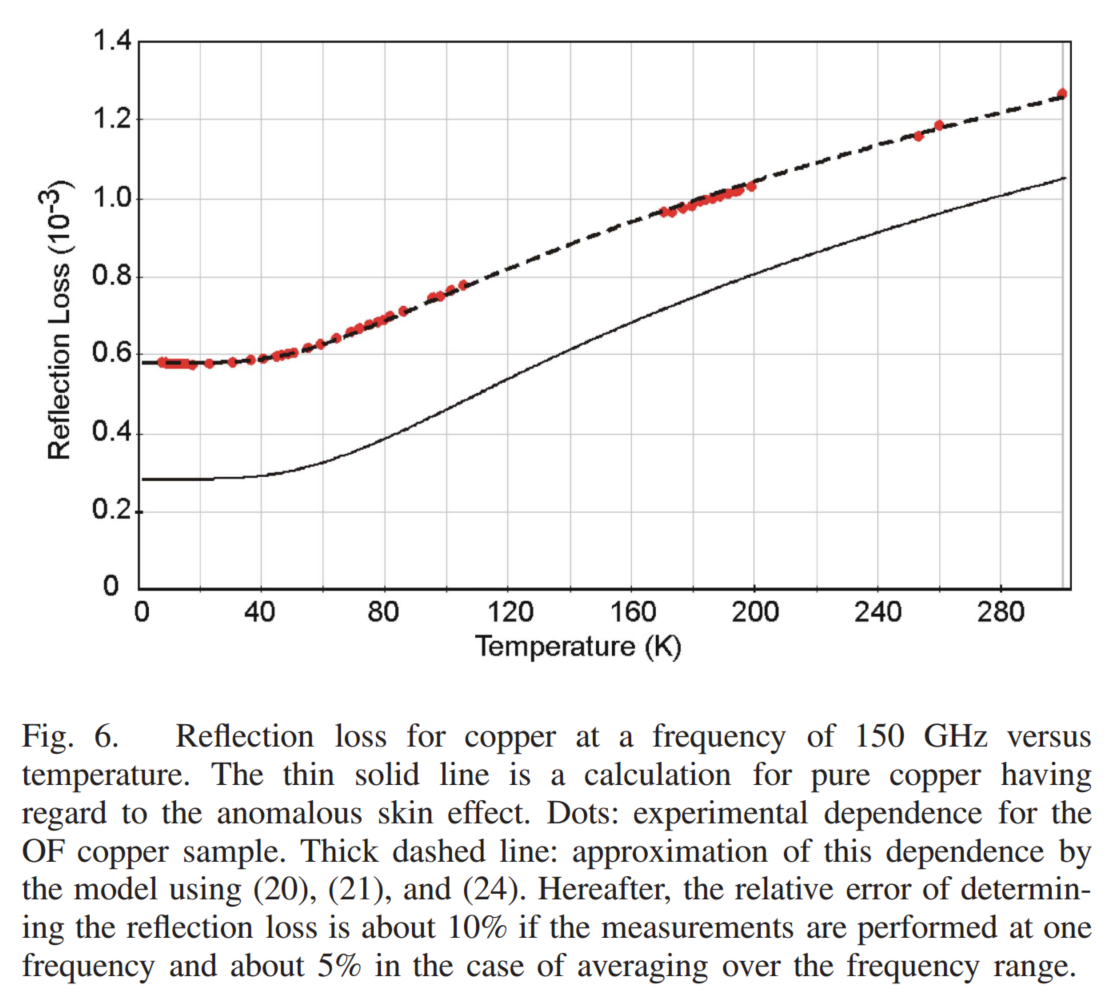
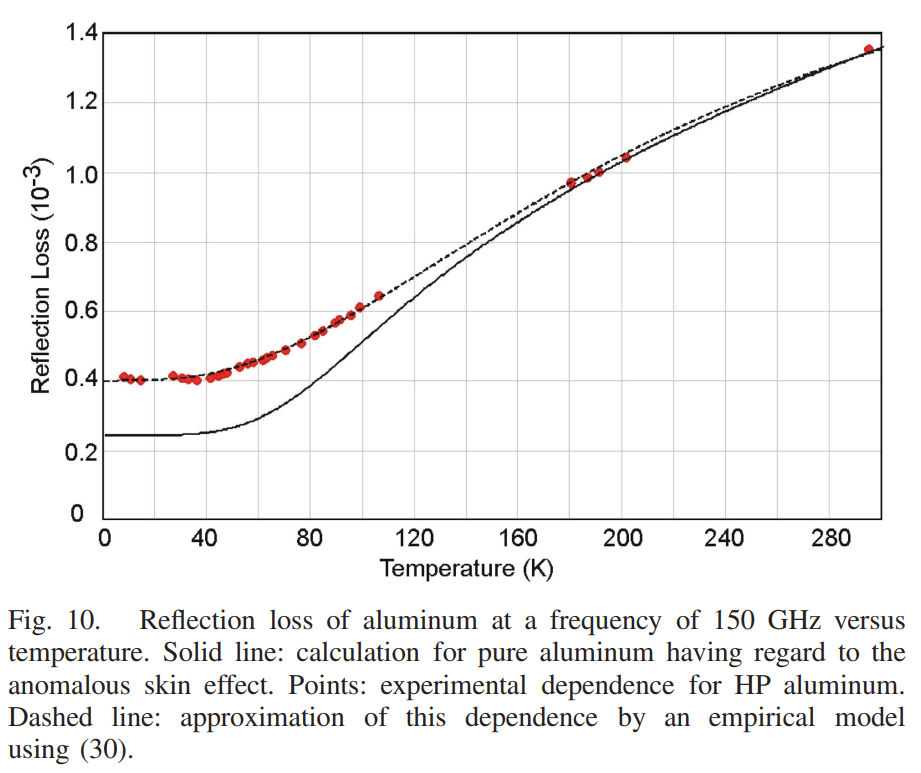
update to rps and diff pol postings.

diff --git a/2019mmdd_rps_reflection_polarization/index.html b/2019mmdd_rps_reflection_polarization/index.html
@@ -38,7 +38,7 @@
 
 <section>
 
-    I calculate the conductivity of Aluminum using the reflection loss at 150GHz, scaled from 290K to 240K (from the data in Fig 6 of <a href="data/reflectivity_of_metals_at_mm_wavelengths_SPandB.pdf" target="_blank">this paper</a>, see below) the index of refraction for Aluminum is
+    I calculate the conductivity of Aluminum using the reflection loss at 150GHz, scaled from 290K to 240K (from the data in Fig 10 of <a href="data/reflectivity_of_metals_at_mm_wavelengths_SPandB.pdf" target="_blank">this paper</a>, see below) the index of refraction for Aluminum is
     $$
     n_{90} \sim (1+i)\sqrt{2\frac{90}{150}\sigma_{Al}} = 2400
     $$
